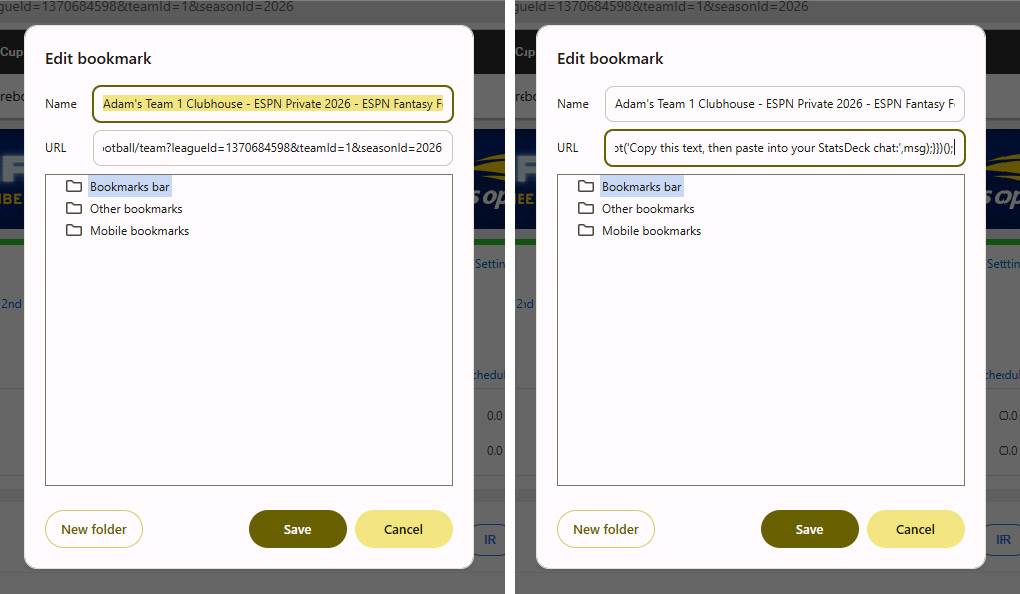
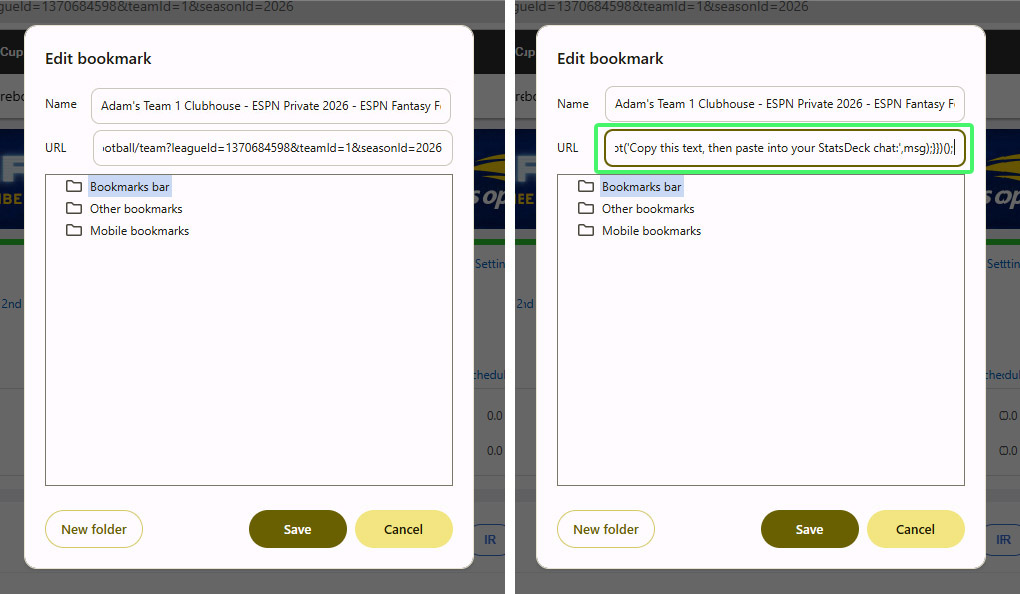
espn page: real per-step captions, bookmarklet copy chip, public+private intro, swap desktop-3

Changed region(s): [[0.0912, 0.1212, 0.4559, 0.2121], [0.5775, 0.1818, 0.9725, 0.303]]

diff --git a/public/espn.html b/public/espn.html
@@ -123,8 +123,42 @@ p{margin:0 0 16px}
 }
 .carousel-caption{
   font-family:'Inter',system-ui,sans-serif;
-  color:var(--ink-soft);font-size:1rem;
-  margin:16px auto 0;min-height:2em;
+  color:var(--ink-soft); font-size:1rem; line-height:1.5;
+  text-align:left; max-width:60ch; margin:16px auto 0;   /* left-aligned, capped for readability, grows with content */
+}
+.carousel-caption strong{color:var(--ink); font-weight:600}
+.carousel-caption em{font-style:italic}
+.carousel-caption a{color:var(--brand-dark); font-weight:600}
+.carousel-caption code{
+  font-family:'JetBrains Mono',monospace; font-size:.85em;
+  background:var(--brand-soft); color:var(--brand-dark);
+  padding:1px 5px; border-radius:5px;
+}
+
+/* bookmarklet copy chip — dark field / gold mono, single-line truncate + copy button.
+   Reuses the home page's .url-copy-btn (button + copied state); the container is block-level
+   so a ~500-char bookmarklet truncates cleanly instead of wrapping into a blob. */
+.bm-chip{
+  display:flex; align-items:center; gap:10px;
+  max-width:60ch; margin:14px auto 0; padding:10px 12px;
+  background:var(--field); border-radius:10px; text-align:left;
+}
+.bm-chip[hidden]{display:none}     /* honor the hidden attribute over display:flex */
+.bm-code{
+  flex:1; min-width:0; overflow:hidden; text-overflow:ellipsis; white-space:nowrap;
+  font-family:'JetBrains Mono',monospace; font-size:.82rem; color:var(--gold);
+}
+.url-copy-btn{
+  display:inline-flex; align-items:center; justify-content:center;
+  flex:none; border:none; cursor:pointer; padding:2px;
+  background:transparent; color:var(--gold); line-height:0;
+  border-radius:5px; transition:color .15s ease;
+}
+.url-copy-btn:hover{color:#fff}
+.url-copy-btn svg{width:16px; height:16px; display:block}
+.url-copy-btn.copied{
+  color:var(--brand); font-family:'Saira Condensed',sans-serif;
+  font-size:.72rem; font-weight:600; text-transform:uppercase; letter-spacing:.06em; line-height:1;
 }
 .carousel-nav{
   display:flex;align-items:center;justify-content:center;gap:16px;
@@ -209,7 +243,7 @@ p{margin:0 0 16px}
     <div class="wrap">
       <p class="eyebrow">ESPN · Private league setup</p>
       <h1>Connect your private ESPN league</h1>
-      <p class="lede">Private ESPN leagues need two session cookies before StatsDeck can read them. This one-tap tool grabs them for you — no copying long codes by hand. It takes about a minute.</p>
+      <p class="lede">StatsDeck supports both <strong>public and private</strong> ESPN leagues. For a public league, all you need is your <strong>league ID</strong>. For a private league, you'll also need your <strong>session cookie</strong> — we cover that below. StatsDeck never changes your team or league; it only pulls in the data so you and Claude can strategize together.</p>
     </div>
   </section>
 
@@ -230,6 +264,10 @@ p{margin:0 0 16px}
       </div>
       <p class="enlarge-hint">Tap or click to enlarge</p>
       <p class="carousel-caption" id="carousel-caption">Step 1</p>
+      <div class="bm-chip" id="bm-chip" hidden>
+        <code class="bm-code" id="bm-code"></code>
+        <button type="button" class="url-copy-btn" id="bm-copy" aria-label="Copy bookmarklet code"></button>
+      </div>
       <div class="carousel-nav">
         <button type="button" class="btn btn-ghost carousel-back" id="carousel-back" aria-label="Previous step">Back</button>
         <span class="carousel-counter" id="carousel-counter" aria-live="polite">1 / 10</span>
@@ -246,6 +284,10 @@ p{margin:0 0 16px}
       </div>
       <p class="enlarge-hint">Tap or click to enlarge</p>
       <p class="carousel-caption" id="d-carousel-caption">Step 1</p>
+      <div class="bm-chip" id="d-bm-chip" hidden>
+        <code class="bm-code" id="d-bm-code"></code>
+        <button type="button" class="url-copy-btn" id="d-bm-copy" aria-label="Copy bookmarklet code"></button>
+      </div>
       <div class="carousel-nav">
         <button type="button" class="btn btn-ghost" id="d-carousel-back" aria-label="Previous step">Back</button>
         <span class="carousel-counter" id="d-carousel-counter" aria-live="polite">1 / 5</span>
@@ -276,6 +318,13 @@ p{margin:0 0 16px}
   <img class="lightbox-img" id="lightbox-img" src="" alt="" />
 </div>
 
+<!--
+  Canonical ESPN bookmarklet, stored as LITERAL text (not a JS string) so the regex
+  backslashes ( (^|;)\s*  and  \s*=\s* ) survive verbatim. Both copy chips read this single
+  block via .textContent — never hardcode the bookmarklet a second time. Edit ONLY here.
+-->
+<script type="text/plain" id="bm-source">javascript:(function(){function g(n){var m=document.cookie.match('(^|;)\s*'+n+'\s*=\s*([^;]+)');return m?m.pop():'';}var s=g('SWID'),e=g('espn_s2');if(!s||!e){alert('Could not read ESPN cookies. Make sure you are on fantasy.espn.com and logged in.');return;}var msg='Please call the save_espn_credentials tool with these exact values — swid: '+s+' espn_s2: '+e;function done(){alert('Copied! Paste into your StatsDeck chat and send.');}if(navigator.clipboard&&navigator.clipboard.writeText){navigator.clipboard.writeText(msg).then(done,function(){window.prompt('Copy this text, then paste into your StatsDeck chat:',msg);});}else{window.prompt('Copy this text, then paste into your StatsDeck chat:',msg);}})();</script>
+
 <script>
 // ---- Carousel A (mobile): two-set segmented control, safari + chrome ----
 (function(){
@@ -284,6 +333,34 @@ p{margin:0 0 16px}
     chrome: { dir:'chrome', count:8  }
   };
 
+  // Per-set, per-step caption HTML (index 0 = step 1). Fixed literals — NOT user input —
+  // so caption.innerHTML is safe. Contains <strong>/<em>/<a>/<code>.
+  var CAPS = {
+    safari: [
+      `In <strong>Safari</strong>, go to your ESPN Fantasy Football <strong>team page</strong> and log in (<a href="https://fantasy.espn.com/" target="_blank" rel="noopener">fantasy.espn.com</a>).`,
+      `Your <strong>league ID</strong> is in the URL — tap the address bar to see it (the number after <code>leagueId=</code>, not including the <code>&amp;</code>). <strong>Public league?</strong> That's all you need — return to Claude and say <em>"Please connect my ESPN league [your league ID]."</em> <strong>Private league?</strong> Keep going for your session cookie.`,
+      `To grab your <strong>session cookie</strong>, we'll make a <strong>custom bookmark</strong> that copies it for you. Tap the <strong>three-dot (overflow)</strong> icon.`,
+      `Tap <strong>Add to Bookmarks</strong> to save the new bookmark.`,
+      `Now we'll <strong>edit it</strong> — open your bookmarks and find the one you just made.`,
+      `Tap the <strong>three-dot (overflow)</strong> icon to reach the edit option.`,
+      `Select <strong>Edit</strong>.`,
+      `<strong>Replace the bookmark's address (URL)</strong> with the code below — fully remove the original, paste this in, then <strong>save</strong>.`,
+      `Back on your ESPN team page, open your bookmarks and <strong>tap the bookmark</strong> you made. It grabs your session cookie and copies it to your clipboard.`,
+      `Home stretch — return to Claude and say <em>"Please connect my ESPN league [your league ID]."</em> It'll see the league is private and ask for your cookies; long-press the chat field and <strong>paste</strong>. That's it — you only do this once, since these cookies don't currently expire.`
+    ],
+    chrome: [
+      `In <strong>Chrome</strong>, go to your ESPN Fantasy Football <strong>team page</strong> and log in (<a href="https://fantasy.espn.com/" target="_blank" rel="noopener">fantasy.espn.com</a>).`,
+      `Your <strong>league ID</strong> is in the URL — tap the address bar to see it (the number after <code>leagueId=</code>, not including the <code>&amp;</code>). <strong>Public league?</strong> That's all you need — return to Claude and say <em>"Please connect my ESPN league [your league ID]."</em> <strong>Private league?</strong> Keep going for your session cookie.`,
+      `To grab your <strong>session cookie</strong>, we'll make a <strong>custom bookmark</strong> that copies it for you. Tap the <strong>three-dot (overflow)</strong> icon.`,
+      `Tap <strong>Add to Bookmarks</strong> to save the new bookmark.`,
+      `Open your bookmarks, find the one you just made, and <strong>long-press it</strong> for more options — then select <strong>Edit</strong>.`,
+      `<strong>Replace the bookmark's address (URL)</strong> with the code below — fully remove the original, paste this in, then <strong>save</strong>.`,
+      `Back on your ESPN team page, open your bookmarks and <strong>tap the bookmark</strong> you made. It grabs your session cookie and copies it to your clipboard.`,
+      `Home stretch — return to Claude and say <em>"Please connect my ESPN league [your league ID]."</em> It'll see the league is private and ask for your cookies; long-press the chat field and <strong>paste</strong>. That's it — you only do this once, since these cookies don't currently expire.`
+    ]
+  };
+  var PASTE_STEP = { safari: 8, chrome: 6 };   // step where the bookmarklet chip appears
+
   var root = document.getElementById('espn-carousel');
   if (!root) return;
   var img     = document.getElementById('carousel-img');
@@ -291,6 +368,7 @@ p{margin:0 0 16px}
   var counter = document.getElementById('carousel-counter');
   var back    = document.getElementById('carousel-back');
   var next    = document.getElementById('carousel-next');
+  var chip    = document.getElementById('bm-chip');
   var tabs    = [
     document.getElementById('tab-safari'),
     document.getElementById('tab-chrome')
@@ -305,8 +383,9 @@ p{margin:0 0 16px}
     img.src = '/img/espn/' + set.dir + '-' + n + '.jpg';
     img.alt = 'ESPN ' + current + ' step ' + n + ' of ' + set.count;
     img.loading = i === 0 ? 'eager' : 'lazy';
-    caption.textContent = 'Step ' + n;          // placeholder copy — swap real captions later
+    caption.innerHTML = CAPS[current][i];        // rich per-step caption (static, code-controlled)
     counter.textContent = n + ' / ' + set.count;
+    if (chip) chip.hidden = (n !== PASTE_STEP[current]);   // chip only on the paste step
     back.disabled = i === 0;                     // no Back on step 1
     next.disabled = i === set.count - 1;         // no dead-end Next on the last step
   }
@@ -346,7 +425,17 @@ p{margin:0 0 16px}
 
 // ---- Carousel B (desktop): single set, independent state machine ----
 (function(){
-  var COUNT = 5;  // desktop-1 … desktop-5
+  var COUNT = 5;         // desktop-1 … desktop-5
+  var PASTE_STEP = 4;    // step where the bookmarklet chip appears
+
+  // Per-step caption HTML (index 0 = step 1). Fixed literals — safe for innerHTML.
+  var CAPS = [
+    `In <strong>Chrome</strong>, go to your ESPN Fantasy Football <strong>team page</strong> and log in (<a href="https://fantasy.espn.com/" target="_blank" rel="noopener">fantasy.espn.com</a>). Your <strong>league ID</strong> is in the URL (the number after <code>leagueId=</code>, not including the <code>&amp;</code>). <strong>Public league?</strong> That's all you need — return to Claude and say <em>"Please connect my ESPN league [your league ID]."</em> <strong>Private league?</strong> Keep going for your session cookie.`,
+    `To grab your <strong>session cookie</strong>, we'll make a <strong>custom bookmark</strong> that copies it for you. Click the <strong>three-dot</strong> menu (top-right), then <strong>Bookmark this tab</strong>.`,
+    `Now we'll <strong>edit it</strong> — open your bookmarks, right-click the one you just made (<strong>two-finger tap on Mac</strong>), and select <strong>Edit</strong>.`,
+    `<strong>Replace the bookmark's address (URL)</strong> with the code below — fully remove the original, paste this in, then <strong>save</strong>.`,
+    `Home stretch — back on your ESPN team page, open your bookmarks and <strong>click the bookmark</strong> you made to copy your cookie. Then return to Claude, say <em>"Please connect my ESPN league [your league ID],"</em> and <strong>paste</strong> when asked. That's it — you only do this once, since these cookies don't currently expire.`
+  ];
 
   var root = document.getElementById('desktop-carousel');
   if (!root) return;
@@ -355,6 +444,7 @@ p{margin:0 0 16px}
   var counter = document.getElementById('d-carousel-counter');
   var back    = document.getElementById('d-carousel-back');
   var next    = document.getElementById('d-carousel-next');
+  var chip    = document.getElementById('d-bm-chip');
 
   var i = 0;  // current step index, 0-based
 
@@ -363,8 +453,9 @@ p{margin:0 0 16px}
     img.src = '/img/espn/desktop-' + n + '.jpg';
     img.alt = 'ESPN desktop step ' + n + ' of ' + COUNT;
     img.loading = 'lazy';                         // below the fold — lazy is fine
-    caption.textContent = 'Step ' + n;            // placeholder copy — swap real captions later
+    caption.innerHTML = CAPS[i];                  // rich per-step caption (static, code-controlled)
     counter.textContent = n + ' / ' + COUNT;
+    if (chip) chip.hidden = (n !== PASTE_STEP);   // chip only on the paste step
     back.disabled = i === 0;
     next.disabled = i === COUNT - 1;
   }
@@ -434,6 +525,50 @@ p{margin:0 0 16px}
   document.addEventListener('keydown', function(e){
     if (e.key === 'Escape' || e.key === 'Esc') close();
   });
+})();
+
+// ---- Shared bookmarklet source: feed both copy chips + wire the copy buttons ----
+// Single source of truth = the #bm-source text/plain block. Both chips display it and
+// both copy actions read it verbatim (never a second hardcoded copy).
+(function(){
+  var srcEl = document.getElementById('bm-source');
+  if (!srcEl) return;
+  function BM(){ return srcEl.textContent.trim(); }   // read live each time — always verbatim
+
+  var COPY_ICON =
+    '<svg viewBox="0 0 24 24" fill="none" stroke="currentColor" stroke-width="2" ' +
+    'stroke-linecap="round" stroke-linejoin="round" aria-hidden="true">' +
+    '<rect x="9" y="9" width="13" height="13" rx="2"/>' +
+    '<path d="M5 15H4a2 2 0 0 1-2-2V4a2 2 0 0 1 2-2h9a2 2 0 0 1 2 2v1"/></svg>';
+
+  function wire(codeId, btnId){
+    var code = document.getElementById(codeId);
+    var btn  = document.getElementById(btnId);
+    if (!code || !btn) return;
+    code.textContent = BM();          // visible (truncated) code = the source, verbatim
+    btn.innerHTML = COPY_ICON;
+    btn.addEventListener('click', function(){
+      if (btn.dataset.busy) return;
+      function copied(){
+        btn.dataset.busy = '1';
+        btn.classList.add('copied');
+        btn.textContent = 'Copied!';
+        setTimeout(function(){
+          btn.classList.remove('copied');
+          btn.innerHTML = COPY_ICON;
+          delete btn.dataset.busy;
+        }, 1500);
+      }
+      try {
+        if (navigator.clipboard && navigator.clipboard.writeText) {
+          navigator.clipboard.writeText(BM()).then(copied, function(){ /* denied — code stays visible */ });
+        }
+      } catch (_) { /* never throw from a copy click */ }
+    });
+  }
+
+  wire('bm-code', 'bm-copy');       // Carousel A chip
+  wire('d-bm-code', 'd-bm-copy');   // Carousel B chip
 })();
 </script>
 </body>